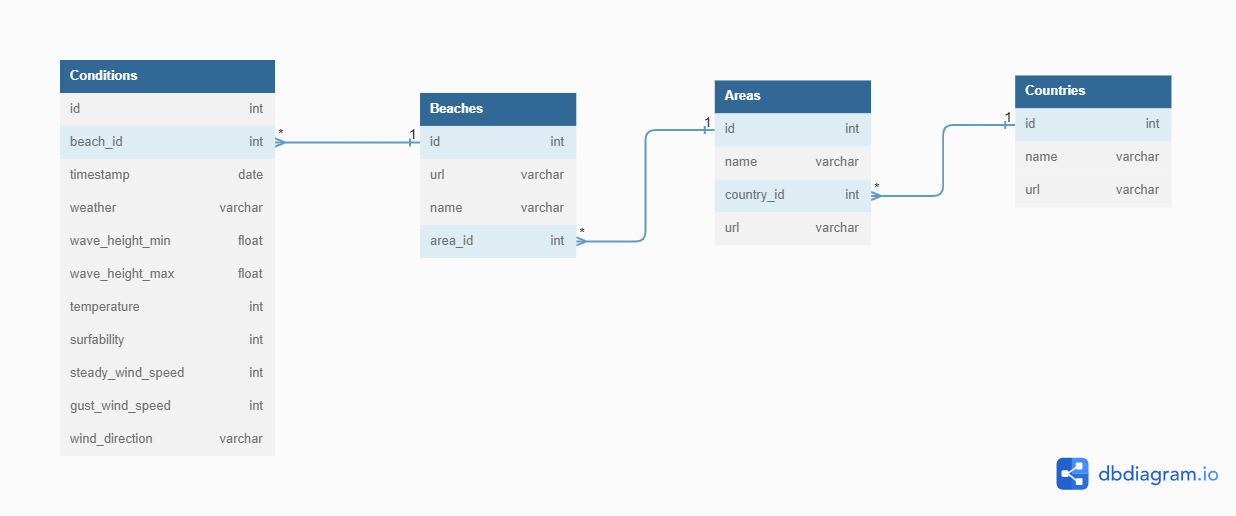
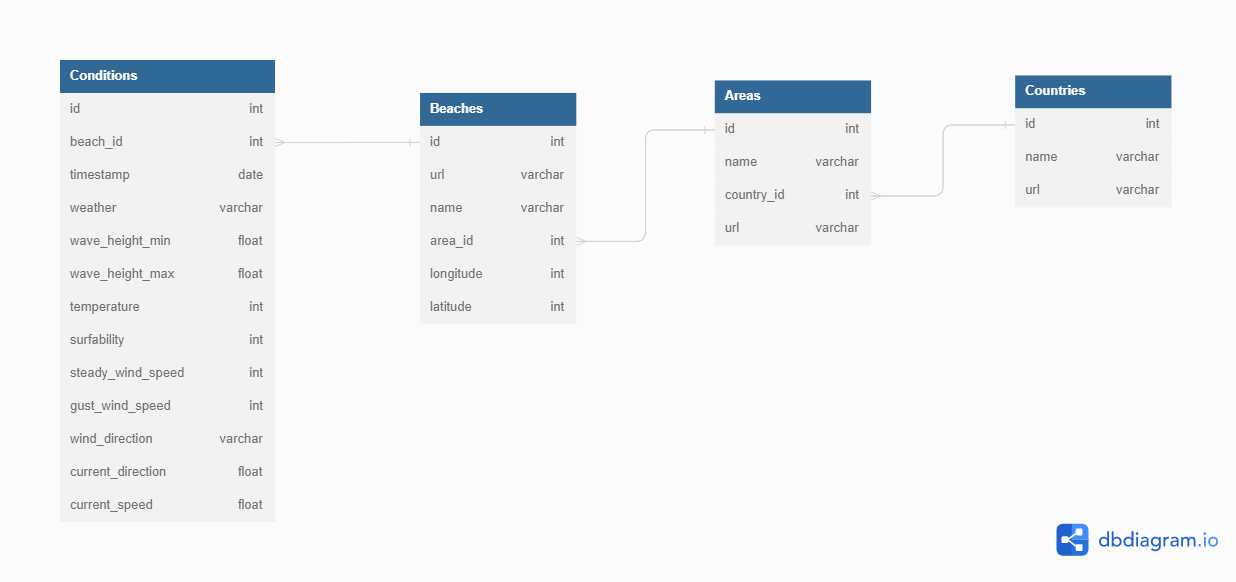
debuging done for the api query, add info into database and modify readme

diff --git a/database.py b/database.py
@@ -61,6 +61,8 @@ TABLES['Conditions'] = (
     `gust_wind_speed(kph)` int(11) NOT NULL,
     `surfability` int(11) NOT NULL,
     `wind_direction` varchar(255) NOT NULL,
+    `current_direction(°)` float(24) NOT NULL,
+    `current_speed(mps)` float(24) NOT NULL,
     PRIMARY KEY (`id`),
     FOREIGN KEY (beach_id) REFERENCES Beaches(id)
     ) ENGINE=InnoDB""")
@@ -158,7 +160,8 @@ def insert_areas(areas_dict, country):
                     WHERE NOT EXISTS (
                         SELECT * FROM Areas 
                         WHERE `name` = %s AND `url` = %s 
-                            AND country_id = (SELECT id FROM Countries where Countries.name = %s));"""
+                            AND country_id = (SELECT id FROM Countries where Countries.name = %s)
+                    );"""
     for area, beaches in areas_dict.items():
         area_name, area_url = area
         area = (area_name, area_url, country)
@@ -182,15 +185,15 @@ def insert_beaches(area_dict):
     add_beach = """INSERT INTO Beaches (`name`, `url`, `area_id`, `latitude`, `longitude`) 
                         SELECT %s, %s, (SELECT id FROM Areas where Areas.url = %s), %s, %s
                         WHERE NOT EXISTS (
-                        SELECT * FROM Beaches
-                        WHERE name = %s AND url = %s
-                            AND area_id = (SELECT id FROM Areas where Areas.url = %s)
-                            AND latitude = %s AND longitude = %s);"""
+                            SELECT * FROM Beaches
+                            WHERE name = %s AND url = %s
+                                AND area_id = (SELECT id FROM Areas where Areas.url = %s)
+                        );"""
     for area, beaches in area_dict.items():
         area_name, area_url = area
         for beach in beaches:
-            beach = (beach["name"], beach["url"], area_url, beach["latitude"], beach["longitude"])
-            cursor.execute(add_beach, beach + beach)
+            beach_tup = (beach["name"], beach["url"], area_url, beach["latitude"], beach["longitude"])
+            cursor.execute(add_beach, beach_tup + (beach["name"], beach["url"], area_url))
             print(f'{beach} successfully inserted into db')
 
     connection.commit()
@@ -209,8 +212,8 @@ def insert_conditions(beach_info):
 
     add_condition = """INSERT INTO Conditions (`beach_id`, `timestamp`, `weather`, `wave_height_min(m)`, 
                     `wave_height_max(m)`, `temperature(C)`, `steady_wind_speed(kph)`, `gust_wind_speed(kph)`, 
-                    `surfability`, `wind_direction`) 
-                    SELECT (SELECT id FROM Beaches where Beaches.url = %s), %s, %s, %s, %s, %s, %s, %s, %s, %s
+                    `surfability`, `wind_direction`, `current_direction(°)`, `current_speed(mps)`) 
+                    SELECT (SELECT id FROM Beaches where Beaches.url = %s), %s, %s, %s, %s, %s, %s, %s, %s, %s, %s, %s
                     WHERE NOT EXISTS (
                         SELECT * FROM Conditions 
                         WHERE beach_id = (SELECT id FROM Beaches where Beaches.url = %s) AND timestamp = %s
@@ -220,7 +223,8 @@ def insert_conditions(beach_info):
         condition = (beach_info['url'], beach_info['timestamp'][i],
                      beach_info['weather'][i], beach_info['swell'][i][0], beach_info['swell'][i][1],
                      beach_info['temperature'][i], beach_info['steady_wind_speed'][i], beach_info['gust_wind_speed'][i],
-                     beach_info['surfability'][i], beach_info['direction'][i])
+                     beach_info['surfability'][i], beach_info['direction'][i],
+                     beach_info["currentDirection"][i], beach_info["currentSpeed"][i])
         cursor.execute(add_condition, condition + (beach_info['url'], beach_info['timestamp'][i]))
         print(f'{time} successfully inserted into db')
 

diff --git a/one_beach_scrapping.py b/one_beach_scrapping.py
@@ -154,7 +154,7 @@ def print_beach_info(beach_info):
         if i % 8 == 0:
             print(beach_info['timestamp'][i].date())
             print("Time | Weather  | Temperature | Swell (m) [min-max]| \
-Steady Wind Speed (KpH) | Gust Wind Speed (KpH) |  Surfability [0-5]")
+Steady Wind Speed (KpH) | Gust Wind Speed (KpH) |  Surfability [0-5] | currentDirection [??] | currentSpeed [??]")
         print(beach_info['timestamp'][i].time(),
               beach_info['weather'][i],
               beach_info['temperature'][i],
@@ -162,7 +162,9 @@ Steady Wind Speed (KpH) | Gust Wind Speed (KpH) |  Surfability [0-5]")
               beach_info['steady_wind_speed'][i],
               beach_info['gust_wind_speed'][i],
               beach_info['surfability'][i],
-              beach_info['direction'][i])
+              beach_info['direction'][i],
+              beach_info['currentDirection'][i],
+              beach_info['currentSpeed'][i])
 
 
 def get_area_data(area_url):

diff --git a/README.md b/README.md
@@ -2,17 +2,17 @@
 
 ## Description
 
-This is a web scraping project that extracts Surf Forecast data from the website [MagicSeaWeed.com](https://magicseaweed.com/).
-The project aims to collect as much detail as possible for each data point, including wave height, wind speed (gust and steady speed), and temperature.
+This is a web scraping project that extracts Surf Forecast data from the website [MagicSeaWeed.com](https://magicseaweed.com/) and the API [StormGlass.io](https://stormglass.io/).
+The project aims to collect as much detail as possible for each data point, including wave height, wind speed (gust and steady speed), temperature and current.
 
 ## Data Source
 
-The data source used in this project is Magicseeweed.com.
+The data source used in this project come from Magicseeweed.com and Stormglass.io.
 
 Magicseaweed.com is a website that provides surf forecasting and related information for beaches around the world.
 It offers up-to-date data on wave height, swell direction, wind speed, tide times, and other relevant metrics to help surfers, windsurfers, and kitesurfers plan their sessions.
 
-The data is not publicly available via an API.
+Stormglass.io is a global weather API that focused on weather forecasts & historical data from the world’s most trusted meteorological institutions.
 
 ## Requirements
 
@@ -23,14 +23,15 @@ Please run the following in order to install all the required modules that the c
 ## How to Run
 
 * Install the required packages running the commands above (Requirements). 
-* Run the main Python script using python main.py withthe following options passed as arguments :
+* In order for the code to run, you need to insert the absolute path that contains your own API key from Stormglass.io in the json file.
+* Run the main Python script using python main.py with the following options passed as arguments :
   - `-mode` : whether should the data be print in the stdout or store in a SQL database (more information about this option below)
   - `-country` : the country from which you want to extract the data : Hawaii, France or Israel. You can also extract all of them with choosing the "ALL" option.
 EXAMPLE : `main.py -mode database -country Hawaii` will print to the stdout all the data from every beach in Hawaii.
 
 * Connect to your sql local server
-  - In the conf_sql.json: `"password": "password"` input your own password
-  - In the conf_sql.json: `"user": "user"` input your own username
+  - In the conf_sql.json: `"password": "*****"` input your own password
+  - In the conf_sql.json: `"user": "*****"` input your own username
   
 
 ## Project Structure
@@ -38,7 +39,8 @@ EXAMPLE : `main.py -mode database -country Hawaii` will print to the stdout all 
 * main.py: The main script that initiates the web scraping process. 
 * one_beach_scrapping.py: Contains the functions for retrieving the data of interest (detailed below) for one url page. 
 * url_extraction.py: Contains the functions for getting all beaches urls using Selenium.
-* database.py : containes the function related to SQL, i.e. create database and table and inserting the values.
+* database.py : contains the function related to SQL, i.e. create database and table and inserting the values.
+* api.py : contains the function that query data from Stormglass.io API.
 * conf.json : the configuration file read by all the .py
 * conf_sql.json : the configuration file read for the sql queries.
 
@@ -67,21 +69,27 @@ The code can be run from command line or from any IDE like PyCharm.
 
 ## Results
 
-Milestone 2 : For every beach in a given country coast and for every 3 hours every day of the week past the execution, the code prints/store the following information:
+Milestone 3 : For every beach in a given country coast and for every 3 hours every day of the week past the execution, the code prints/store the following information:
 * weather
 * temperature (in Celsius)
 * swell : min and maximum of the wave height
 * surfability (wave quality indicator)
 * steady speed wind (in KpH)
 * gust speed wind  (in KpH)
-* direction : indicators for wind direction and rotation
+* wind direction : indicators for wind direction and rotation
+* current speed in meters per second
+* current direction in degree
+* latitude and longitude
 
 ## Future Work
 
-The next steps of this project will aim to create an API and perform an analysis :
-Given the past and current weather data, outputs the best spot in the country to go surf.
+The next steps of this project will aim to perform an analysis :
+Given the past and current weather data, outputs the best spot in the country to go surfing.
 
 ## References
+
+* MagicSeaWeed : 
+[msw.com](https://magicseaweed.com/)
 
 * Selenium :
 [medium.com](https://medium.com/pythoneers/web-scraping-using-selenium-python-6c511258ab50#:~:text=It%20is%20the%20process%20of,can%20scrape%20dynamic%20web%20easily)
@@ -89,4 +97,7 @@ Given the past and current weather data, outputs the best spot in the country to
 
 * BeautifulSoup and HTML:
 [realpython.com](https://realpython.com/beautiful-soup-web-scraper-python/)
+
+* Stormglass.io :
+[stromglass.io](https://stormglass.io/)
 
